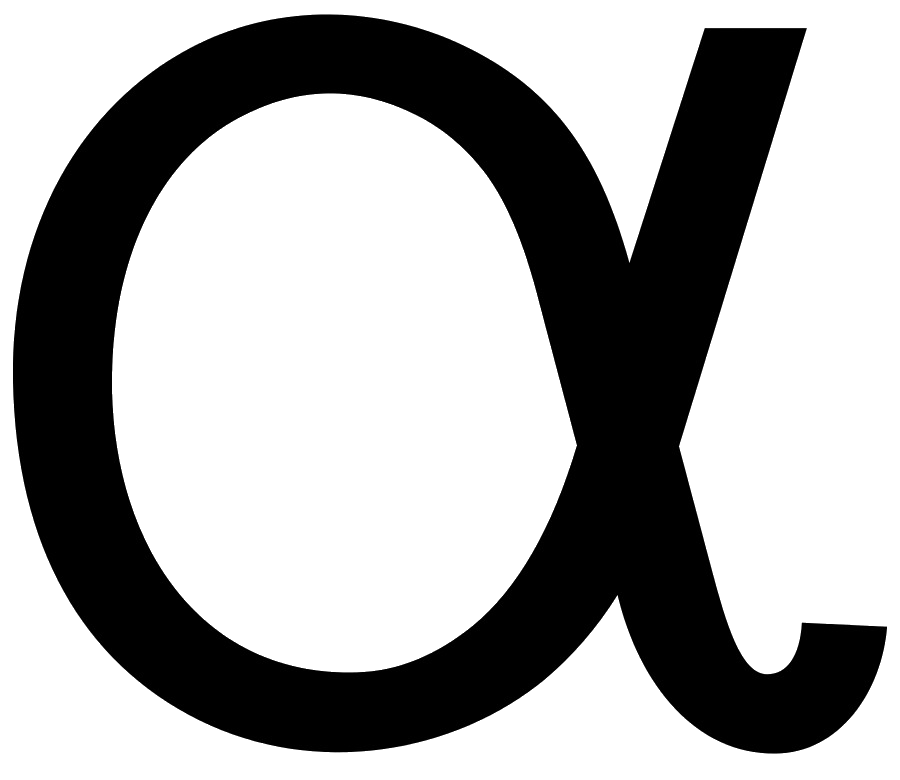
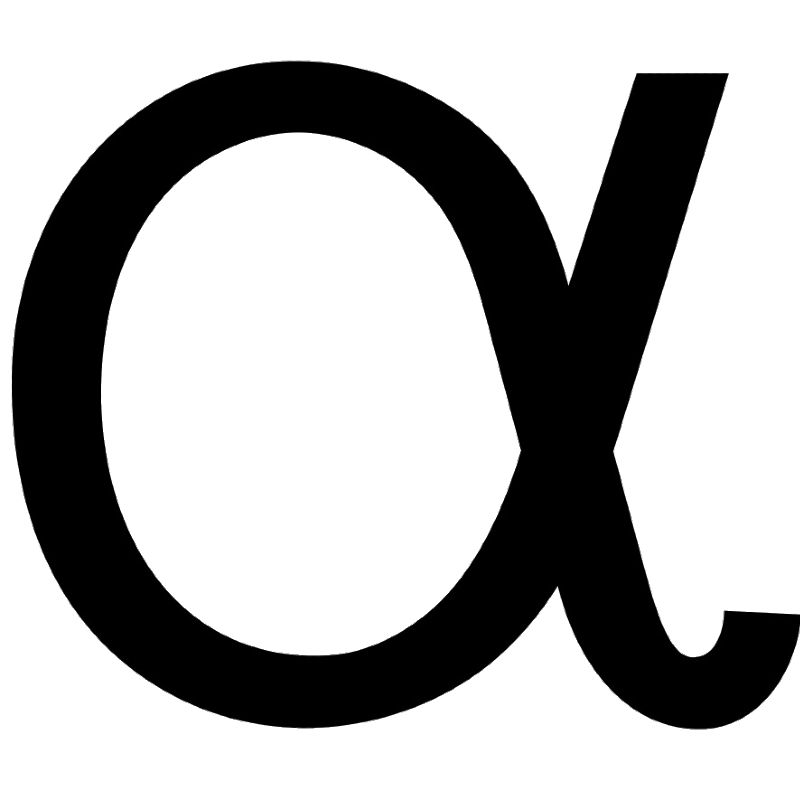
Atualização do projeto alpha

diff --git a/portifolio3/index.html b/portifolio3/index.html
@@ -26,20 +26,54 @@
         </div>
     </header>
     <main>
-        
+        <section class="home-main-banner">
+            <div class="alfbt">
+                <div id="alpha"></div>
+                <div id="lambda"></div>
+                <div id="epsilon"></div>
+                <div id="phi"></div>
+            </div>
+        </section>
         <section id="introducao">
-                <h1>Olá,</h1>
+                <h2 class="h1">Olá,</h2>
                 <p>sou Alef, iniciante na área de desenvolvimento Fron-End.</p>
                 <p>Trabalho atualmente com desenvolvimento web.</p>
+                <p></p>
         </section>
 
-        <section id="habilidades">
+        <!-- End // Home About -->
+
+        <section class="skills">
+            MINHAS SKILLS E POWER UP'S
+            <div></div>
             <ul>
-                <li>JavaScript</li>
-                <li>HTML5</li>
-                <li>CSS3</li>
-                <li>Saas</li>
+                <div>
+                    <div>
+                        <div>
+                            <li>JavaScript</li>
+                        </div>
+                        <div>
+                            <li>HTML5</li>
+                        </div>
+                        <div>
+                            <li>CSS3</li>
+                        </div>
+                        <div>
+                            <li>Saas</li>
+                        </div>
+                    </div>
+                    <div class="setas" disabled>
+
+                    </div>
+                </div>
+                <div class="bottons">
+                    <input type="radio" name="sk-op" id="button" value="1e">
+                    <input type="radio" id="button" name="sk-op" value="2m">
+                    <input type="radio" name="sk-op" id="button" value="3d" checked>
+                </div>
+                
             </ul>
+            <!-- End// Skills -->
         </section>
 
         <section id="o-que-faco">
@@ -56,5 +90,6 @@
         <!--HERE CONTATO-->
     </footer>
     <script type="module" src="JS/menu.js"></script>
+    <script src="JS/main.js"></script>
 </body>
 </html>

diff --git a/portifolio3/css/style.css b/portifolio3/css/style.css
@@ -1,7 +1,7 @@
 @charset "UTF-8";
 * {
-  padding: 0px;
-  margin: 0px;
+  padding: 0;
+  margin: 0;
   box-sizing: border-box;
   border: none;
 }
@@ -95,4 +95,38 @@ header {
   border-radius: 7px;
 }
 
-/*Links concluidos agora é a parte do conteúdo príncipal*//*# sourceMappingURL=style.css.map */
+/*Links concluidos agora é a parte do conteúdo príncipal*/
+main {
+  display: block;
+}
+
+.home-main-banner {
+  background: url(../imagens/background.jpg) top no-repeat;
+  background-size: cover;
+  background-attachment: fixed;
+  padding-top: 50px;
+  position: relative;
+}
+
+#alpha {
+  position: absolute;
+  background: url(../imagens/alpha.png) center no-repeat;
+  background-size: cover;
+  width: 15%;
+  height: 90px;
+  top: 20px;
+  left: 10%;
+}
+
+.h1 {
+  text-transform: none;
+  font-size: 50px;
+  margin-bottom: 0.5rem;
+  font-weight: 500px;
+}
+
+p {
+  margin-bottom: 1rem;
+  text-align: justify;
+  font-size: 14px;
+}/*# sourceMappingURL=style.css.map */

diff --git a/portifolio3/css/style.scss b/portifolio3/css/style.scss
@@ -1,7 +1,7 @@
 @charset "UTF-8";
 * {
-    padding: 0px;
-    margin: 0px;
+    padding: 0;
+    margin: 0;
     box-sizing: border-box;
     border: none;
     
@@ -101,4 +101,48 @@ header {
 
 /*Links concluidos agora é a parte do conteúdo príncipal*/
 
+main {
+    display: block;
+    
+}
 
+.home-main-banner {
+    background: url(../imagens/background.jpg) top no-repeat;
+    background-size: cover;
+    background-attachment: fixed;
+    padding-top: 50px;
+    position: relative;
+}
+
+
+#alpha {
+    position: absolute;
+    background: url(../imagens/alpha.png) center no-repeat;
+    background-size: cover;
+    width: 15%;
+    height: 90px;
+    top: 20px;
+    left: 10%;
+}
+
+
+
+
+.h1{
+    text-transform: none;
+    font-size: 50px;
+    margin-bottom: 0.5rem;
+    font-weight: 500px;
+}
+
+
+
+p {
+    margin-bottom: 1rem;
+    text-align: justify;
+    font-size: 14px;
+}
+
+.skills {
+
+}
